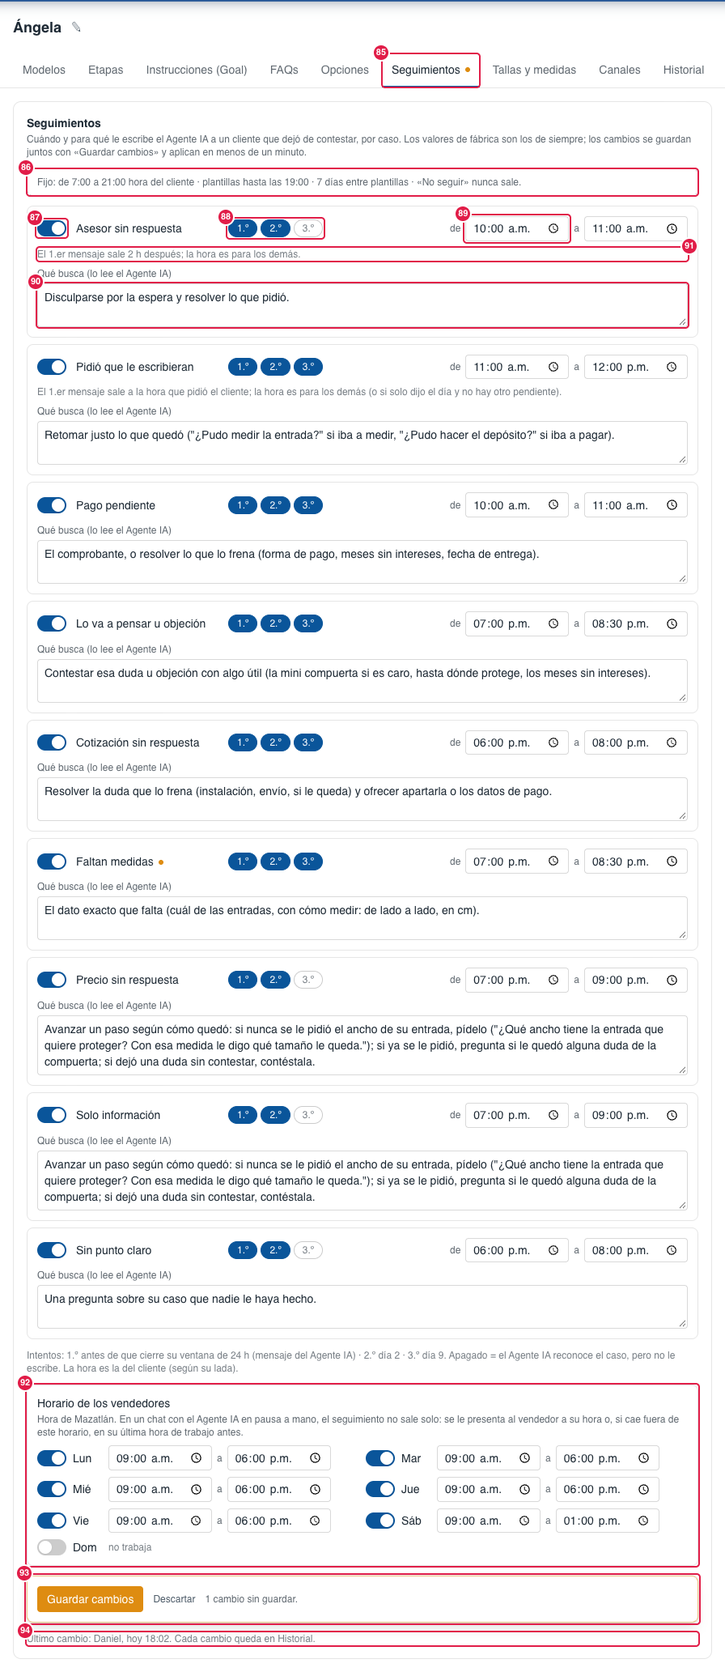
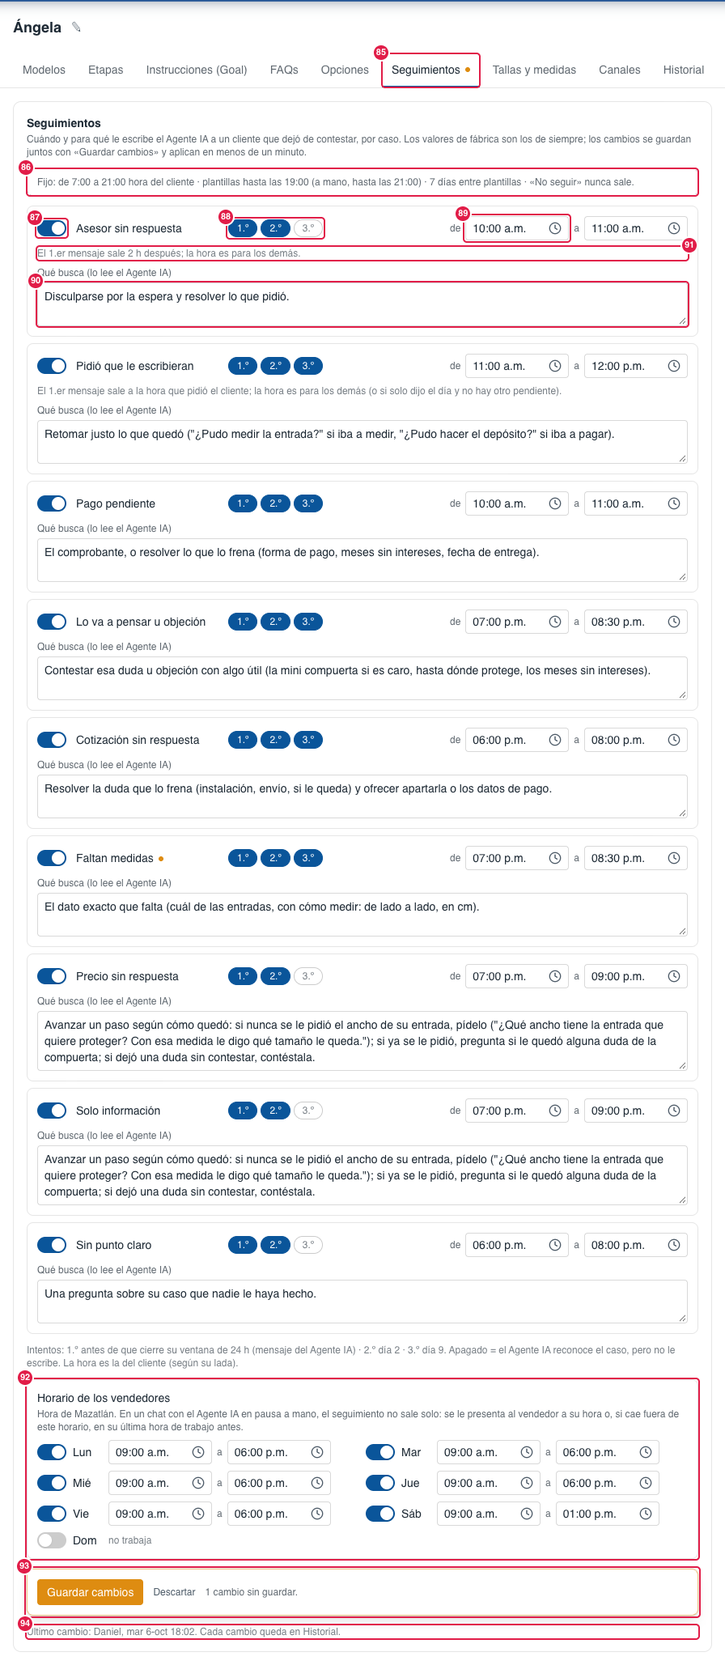
fix(seguimientos): zona de la frontera noreste y «Cambiar hora» con plantilla hasta las 21:00
- Ladas de la frontera noreste (867, 868, 894, 897, 899, 877, 878) → America/Matamoros y la 626 → America/Ojinaga:
  cambian de horario como EE. UU. y el CRM las trataba como centro (de marzo a noviembre su «21:00» llegaba a las 22:00).
- «Cambiar hora»: con plantilla se puede elegir hasta las 21:00 del cliente (antes 19:00) y el barrido respeta esa
  hora (due_set_by = vendedor). Lo que programa el CRM solo no cambia (plantillas hasta las 19:00).
- docs/seguimientos.md §20 con los datos de GHL y de producción que se revisaron; mapa 53 y 86 y captura
  09-agente-seguimientos.

Sin migración.

diff --git a/lib/followups/view.ts b/lib/followups/view.ts
@@ -6,7 +6,7 @@ import { db } from "@/lib/db";
 import { channels, contacts, conversations, followUps, messages, templates, user } from "@/lib/db/schema";
 import { listFunnelStages } from "@/lib/contacts/funnel-stages";
 import { firstNameOf } from "@/lib/templates/first-name";
-import { CASE_RULES, templateForAttempt, TIME_PHRASE_TEMPLATES, type FollowUpCase } from "./cases";
+import { ALLOWED_FROM, ALLOWED_TO, CASE_RULES, templateForAttempt, TIME_PHRASE_TEMPLATES, type FollowUpCase } from "./cases";
 import { presentAtFor, sendTimeProblem, templateFor, windowOpenAt, VENDOR_ZONE, type SendTimeProblem } from "./schedule";
 import { approvedTemplateNames, followUpsReal, lastTemplateAt, reopenCancelledFollowUp } from "./store";
 import { loadFollowUpTable } from "./tabla-store";
@@ -294,23 +294,19 @@ export function sendTimeMessage(problem: SendTimeProblem, t: Date, zone: string)
   if (problem.kind === "siete_dias") {
     return `A este cliente ya le llegó una plantilla hace menos de 7 días. Elige desde el ${dayText(problem.from)} (hora de Mazatlán).`;
   }
-  // De 7:00 a la última hora permitida del día del cliente, en hora de Mazatlán.
+  // De 7:00 a 21:00 del día del cliente, en hora de Mazatlán.
   const p = localParts(t, zone);
   const day = { y: p.y, m: p.m, d: p.d };
-  const from = hourText(zonedInstant(zone, day, "07:00"), VENDOR_ZONE);
-  const to = hourText(zonedInstant(zone, day, problem.latest), VENDOR_ZONE);
-  const why =
-    problem.latest === "21:00"
-      ? `Los seguimientos salen de 7:00 a 21:00 de su hora`
-      : `A esa hora su ventana de 24 h ya cerró y entonces solo se le puede escribir de 7:00 a 19:00 de su hora`;
-  return `Para el cliente serían las ${hourText(t, zone)} (su hora). ${why}: elige entre las ${from} y las ${to} de Mazatlán.`;
+  const from = hourText(zonedInstant(zone, day, ALLOWED_FROM), VENDOR_ZONE);
+  const to = hourText(zonedInstant(zone, day, ALLOWED_TO), VENDOR_ZONE);
+  return `Para el cliente serían las ${hourText(t, zone)} (su hora). Los seguimientos salen de 7:00 a 21:00 de su hora: elige entre las ${from} y las ${to} de Mazatlán.`;
 }
 
 export type ChangeTimeResult = { ok: true } | { ok: false; message: string };
 
 /**
  * Cambiar hora: la elige el vendedor (hora de Mazatlán); se recalcula por dónde saldría. Si a esa hora el
- * CRM no lo dejaría salir (horario del cliente, plantillas hasta las 19:00, 7 días entre plantillas), no se
+ * CRM no lo dejaría salir (7:00–21:00 del cliente, también con plantilla; 7 días entre plantillas), no se
  * guarda y se dice por qué: así sale justo a la hora que eligió.
  */
 export async function changeFollowUpTime(organizationId: string, id: string, dueAt: Date, userId: string, now: Date): Promise<ChangeTimeResult> {

diff --git a/lib/followups/store.ts b/lib/followups/store.ts
@@ -478,10 +478,13 @@ async function lastNonFollowUpAt(organizationId: string, conversationId: string)
   return row?.at ?? null;
 }
 
-/** Mismo instante con otra hora: la siguiente que se pueda (7:00–21:00 del cliente; plantilla hasta las 19:00). */
-function nextSendable(now: Date, zone: string, door: "texto" | "plantilla", caso: Exclude<FollowUpCase, "no_seguir">, fondo: FollowUpCase | null, table: FollowUpTable): Date | null {
+/**
+ * Mismo instante con otra hora: la siguiente que se pueda (7:00–21:00 del cliente; plantilla hasta las 19:00,
+ * salvo la hora que eligió el vendedor con «Cambiar hora»: hasta las 21:00, 10-oct-2026).
+ */
+function nextSendable(now: Date, zone: string, door: "texto" | "plantilla", caso: Exclude<FollowUpCase, "no_seguir">, fondo: FollowUpCase | null, table: FollowUpTable, setByVendor: boolean): Date | null {
   const m = localMinutes(now, zone);
-  const latest = door === "plantilla" ? minutesOf(TEMPLATE_LATEST) : minutesOf(ALLOWED_TO);
+  const latest = door === "plantilla" && !setByVendor ? minutesOf(TEMPLATE_LATEST) : minutesOf(ALLOWED_TO);
   if (m >= minutesOf(ALLOWED_FROM) && m <= latest) return null;
   const today = localParts(now, zone);
   const day = m < minutesOf(ALLOWED_FROM) ? today : addDays(today, 1);
@@ -605,8 +608,9 @@ async function advance(row: FollowUpRow, now: Date, deps: FollowUpRuntimeDeps): 
     door === "plantilla" ? templateForAttempt(caso, row.intento, templateFor(CASE_RULES[caso].doors[row.intento - 1] ?? "saludo", now, row.timeZone), signals.approved, picks, previous) : null;
 
   if (real) {
-    // Último chequeo antes de escribirle al cliente: su hora, el tope de las 19:00 para plantilla y los 7 días.
-    let later = nextSendable(now, row.timeZone, door, caso, fondo, signals.table);
+    // Último chequeo antes de escribirle al cliente: su hora, el tope de las 19:00 para plantilla (si no la eligió
+    // el vendedor) y los 7 días.
+    let later = nextSendable(now, row.timeZone, door, caso, fondo, signals.table, row.dueSetBy === "vendedor");
     if (!later && door === "plantilla" && signals.lastTemplateAt && now.getTime() < signals.lastTemplateAt.getTime() + TEMPLATE_SPACING_DAYS * DAY_MS) {
       later = planAttempt({
         caso,

diff --git a/lib/followups/timezone.ts b/lib/followups/timezone.ts
@@ -1,10 +1,13 @@
 // Zona horaria del cliente SEGÚN SU LADA, para mandar el seguimiento a la hora del caso en
 // SU hora (docs/seguimientos.md §9). PURO. Desde 2022 México no cambia de horario, salvo la
-// frontera norte (Baja California y Ciudad Juárez, como Estados Unidos): por eso se usan las
-// zonas IANA y no un desfase fijo.
+// frontera norte (Baja California, Ciudad Juárez, Ojinaga y la frontera de Coahuila, Nuevo León y
+// Tamaulipas, como Estados Unidos): por eso se usan las zonas IANA y no un desfase fijo.
 //   Baja California → Tijuana · Sonora → Hermosillo · Sinaloa, B.C.S. y Nayarit → Mazatlán
 //   (la lada 329, Bahía de Banderas, va con el centro) · Chihuahua → Chihuahua (656, Ciudad
-//   Juárez → Ciudad_Juarez) · Quintana Roo → Cancún · el resto → Ciudad de México.
+//   Juárez → Ciudad_Juarez; 626, Ojinaga → Ojinaga) · Quintana Roo → Cancún · ladas de la frontera
+//   noreste (Nuevo Laredo, Reynosa, Matamoros, Valle Hermoso, Miguel Alemán, Piedras Negras, Acuña)
+//   → Matamoros: hora del centro con horario de verano (10-oct-2026: antes iban con el centro y de
+//   marzo a noviembre su «21:00» les llegaba a las 22:00) · el resto → Ciudad de México.
 // Número de México sin estado en la fuente: centro. Número de otro país o sin teléfono:
 // Mazatlán (la hora del CRM).
 import { mexicanLadaStates } from "@/lib/phone-lada";
@@ -22,9 +25,19 @@ const ZONE_BY_STATE: Readonly<Record<string, string>> = {
   QROO: "America/Cancun",
 };
 
+const BORDER_NORTHEAST = "America/Matamoros";
+
 const ZONE_BY_LADA: Readonly<Record<string, string>> = {
   "329": CENTER,
   "656": "America/Ciudad_Juarez",
+  "626": "America/Ojinaga",
+  "867": BORDER_NORTHEAST, // Nuevo Laredo
+  "868": BORDER_NORTHEAST, // Matamoros
+  "894": BORDER_NORTHEAST, // Valle Hermoso
+  "897": BORDER_NORTHEAST, // Miguel Alemán, Mier, Camargo
+  "899": BORDER_NORTHEAST, // Reynosa, Río Bravo
+  "877": BORDER_NORTHEAST, // Ciudad Acuña
+  "878": BORDER_NORTHEAST, // Piedras Negras
 };
 
 export function zoneForPhone(e164: string | null | undefined): string {

diff --git a/lib/followups/tabla.int.test.ts b/lib/followups/tabla.int.test.ts
@@ -186,11 +186,13 @@ describe.skipIf(!TEST_DATABASE_URL)("Tabla de seguimientos en la base", () => {
     // 22:00 del centro con la ventana abierta: texto, pero fuera de 7:00–21:00.
     const late = await view.changeFollowUpTime(ORG, v!.id, new Date("2026-10-05T22:00:00-06:00"), USER, NOW);
     expect(late).toEqual({ ok: false, message: "Para el cliente serían las 22:00 (su hora). Los seguimientos salen de 7:00 a 21:00 de su hora: elige entre las 6:00 y las 20:00 de Mazatlán." });
-    // Miércoles 20:00 del centro: la ventana ya cerró → plantilla, hasta las 19:00.
-    const tpl = await view.changeFollowUpTime(ORG, v!.id, new Date("2026-10-07T20:00:00-06:00"), USER, NOW);
-    expect(tpl.ok).toBe(false);
-    expect(tpl.ok ? "" : tpl.message).toMatch(/solo se le puede escribir de 7:00 a 19:00 de su hora: elige entre las 6:00 y las 18:00 de Mazatlán/);
+    // Miércoles 21:30 del centro: la ventana ya cerró → plantilla, también de 7:00 a 21:00 (10-oct-2026).
+    const tpl = await view.changeFollowUpTime(ORG, v!.id, new Date("2026-10-07T21:30:00-06:00"), USER, NOW);
+    expect(tpl).toEqual({ ok: false, message: "Para el cliente serían las 21:30 (su hora). Los seguimientos salen de 7:00 a 21:00 de su hora: elige entre las 6:00 y las 20:00 de Mazatlán." });
     expect((await rows())[0]).toMatchObject({ dueAt: before.dueAt, dueSetBy: "sistema" });
+    // Miércoles 20:59 del centro con plantilla (el caso del 10-oct-2026): se guarda.
+    expect(await view.changeFollowUpTime(ORG, v!.id, new Date("2026-10-07T20:59:00-06:00"), USER, NOW)).toEqual({ ok: true });
+    expect((await rows())[0]).toMatchObject({ door: "plantilla", dueSetBy: "vendedor" });
     // Una hora que sí se puede: se guarda tal cual.
     expect(await view.changeFollowUpTime(ORG, v!.id, new Date("2026-10-05T20:45:00-06:00"), USER, NOW)).toEqual({ ok: true });
     expect((await rows())[0]).toMatchObject({ dueSetBy: "vendedor" });

diff --git a/lib/followups/schedule.ts b/lib/followups/schedule.ts
@@ -85,17 +85,17 @@ export function windowOpenAt(windowExpiresAt: Date | null, t: Date): boolean {
   return windowExpiresAt !== null && t.getTime() <= windowExpiresAt.getTime() - WINDOW_MARGIN_MS;
 }
 
-export type SendTimeProblem = { kind: "horario"; latest: string } | { kind: "siete_dias"; from: Date };
+export type SendTimeProblem = { kind: "horario" } | { kind: "siete_dias"; from: Date };
 
 /**
- * ¿El CRM dejaría salir un intento a esa hora? Lo mismo que revisa el barrido al salir: de 7:00 a 21:00 del
- * cliente (plantilla hasta las 19:00) y 7 días entre plantillas. Lo usa «Cambiar hora» para avisar al guardar
- * en lugar de mover la hora en silencio (decisión del dueño, 6-oct-2026).
+ * ¿El CRM dejaría salir a esa hora un intento que eligió el vendedor? Lo mismo que revisa el barrido al salir:
+ * de 7:00 a 21:00 del cliente, también con plantilla (el tope de las 19:00 es solo para lo que programa el CRM;
+ * decisión del dueño, 10-oct-2026), y 7 días entre plantillas. Lo usa «Cambiar hora» para avisar al guardar en
+ * lugar de mover la hora en silencio (decisión del dueño, 6-oct-2026).
  */
 export function sendTimeProblem(t: Date, zone: string, door: Door, lastTemplateAt: Date | null): SendTimeProblem | null {
   const m = localMinutes(t, zone);
-  const latest = door === "plantilla" ? TEMPLATE_LATEST : ALLOWED_TO;
-  if (m < minutesOf(ALLOWED_FROM) || m > minutesOf(latest)) return { kind: "horario", latest };
+  if (m < minutesOf(ALLOWED_FROM) || m > minutesOf(ALLOWED_TO)) return { kind: "horario" };
   if (door === "plantilla" && lastTemplateAt && t.getTime() < lastTemplateAt.getTime() + TEMPLATE_SPACING_DAYS * DAY) {
     return { kind: "siete_dias", from: new Date(lastTemplateAt.getTime() + TEMPLATE_SPACING_DAYS * DAY) };
   }

diff --git a/lib/followups/schedule.test.ts b/lib/followups/schedule.test.ts
@@ -246,11 +246,12 @@ describe("tabla de la organización (Agente IA › Seguimientos, Parte 4)", () =
 });
 
 describe("¿saldría a esa hora? (aviso de «Cambiar hora»)", () => {
-  it("texto: de 7:00 a 21:00 del cliente; plantilla: hasta las 19:00 y a 7 días de la anterior", () => {
+  it("elegida por el vendedor: de 7:00 a 21:00 del cliente, también con plantilla (10-oct-2026), y a 7 días de la anterior", () => {
     expect(sendTimeProblem(mx("2026-10-05T21:00"), CDMX, "texto", null)).toBeNull();
-    expect(sendTimeProblem(mx("2026-10-05T22:00"), CDMX, "texto", null)).toEqual({ kind: "horario", latest: "21:00" });
-    expect(sendTimeProblem(mx("2026-10-05T06:55"), CDMX, "texto", null)).toEqual({ kind: "horario", latest: "21:00" });
-    expect(sendTimeProblem(mx("2026-10-05T19:30"), CDMX, "plantilla", null)).toEqual({ kind: "horario", latest: "19:00" });
+    expect(sendTimeProblem(mx("2026-10-05T22:00"), CDMX, "texto", null)).toEqual({ kind: "horario" });
+    expect(sendTimeProblem(mx("2026-10-05T06:55"), CDMX, "texto", null)).toEqual({ kind: "horario" });
+    expect(sendTimeProblem(mx("2026-10-05T20:59"), CDMX, "plantilla", null)).toBeNull();
+    expect(sendTimeProblem(mx("2026-10-05T21:05"), CDMX, "plantilla", null)).toEqual({ kind: "horario" });
     expect(sendTimeProblem(mx("2026-10-08T10:00"), CDMX, "plantilla", mx("2026-10-05T10:00"))).toEqual({ kind: "siete_dias", from: mx("2026-10-12T10:00") });
     expect(sendTimeProblem(mx("2026-10-12T10:00"), CDMX, "plantilla", mx("2026-10-05T10:00"))).toBeNull();
     // Texto no cuenta los 7 días entre plantillas.

diff --git a/lib/followups/timezone.test.ts b/lib/followups/timezone.test.ts
@@ -15,8 +15,23 @@ describe("zoneForPhone", () => {
     ["+526561234567", "America/Ciudad_Juarez"], // Ciudad Juárez
     ["+529981234567", "America/Cancun"], // Cancún
     ["+523291234567", "America/Mexico_City"], // Bahía de Banderas (Nayarit, hora del centro)
+    ["+528991234567", "America/Matamoros"], // Reynosa (frontera: horario de verano como EE. UU.)
+    ["+528681234567", "America/Matamoros"], // Matamoros
+    ["+528671234567", "America/Matamoros"], // Nuevo Laredo
+    ["+528781234567", "America/Matamoros"], // Piedras Negras
+    ["+528771234567", "America/Matamoros"], // Ciudad Acuña
+    ["+526261234567", "America/Ojinaga"], // Ojinaga
+    ["+528181234567", "America/Mexico_City"], // Monterrey (no es frontera: sin horario de verano)
   ])("%s → %s", (phone, zone) => {
     expect(zoneForPhone(phone)).toBe(zone);
+  });
+
+  it("frontera noreste en octubre: una hora más que el centro (21:00 de Reynosa = 20:00 del centro); en diciembre, igual", () => {
+    const hour = (zone: string, iso: string) => new Intl.DateTimeFormat("en-US", { timeZone: zone, hour: "numeric", hourCycle: "h23" }).format(new Date(iso));
+    expect(hour(zoneForPhone("+528991234567"), "2026-10-10T02:00:00Z")).toBe("21");
+    expect(hour(zoneForPhone("+523312345678"), "2026-10-10T02:00:00Z")).toBe("20");
+    expect(hour(zoneForPhone("+528991234567"), "2026-12-10T03:00:00Z")).toBe("21");
+    expect(hour(zoneForPhone("+523312345678"), "2026-12-10T03:00:00Z")).toBe("21");
   });
 
   it("otro país o sin teléfono: Mazatlán (la hora del CRM)", () => {

diff --git a/lib/followups/envio.int.test.ts b/lib/followups/envio.int.test.ts
@@ -170,6 +170,19 @@ describe.skipIf(!TEST_DATABASE_URL)("Seguimientos en modo REAL (proveedor falso)
     expect((await row()).intentos.at(-1)).toMatchObject({ ensayo: true });
   });
 
+  it("plantilla a las 20:30 del cliente elegida con «Cambiar hora»: sale a esa hora (el tope de las 19:00 es solo para lo del CRM)", async () => {
+    await reading();
+    await store.followUpSweepOnce(new Date((await row()).dueAt!.getTime() + MIN), { provider });
+    const r = await row();
+    expect(r).toMatchObject({ intento: 2, door: "plantilla" });
+    const late = new Date("2026-10-07T20:30:00-06:00");
+    await db.update(s.followUps).set({ dueAt: late, dueSetBy: "vendedor" }).where(d.eq(s.followUps.id, r.id));
+    sent = [];
+    await store.followUpSweepOnce(new Date(late.getTime() + MIN), { provider });
+    expect(sent).toEqual([expect.objectContaining({ kind: "template", name: "seg_medidas" })]);
+    expect(await row()).toMatchObject({ status: "esperando" });
+  });
+
   it("pausa puesta a mano: no sale sola; a su hora de presentarse deja UN aviso (tarjeta amarilla); «Que salga solo» la deja salir", async () => {
     await db.update(s.conversations).set({ agentState: "pausado_humano", agentStateChangedAt: new Date(T0.getTime() - MIN) }).where(d.eq(s.conversations.id, CONV));
     await db.insert(s.changeHistory).values({ id: "h_pausa", organizationId: ORG, kind: "pausas", action: "pausar", subjectId: CONV, createdAt: new Date(T0.getTime() - MIN) });

diff --git a/app/(app)/agente-ia/_components/followup-rules-section.tsx b/app/(app)/agente-ia/_components/followup-rules-section.tsx
@@ -4,7 +4,7 @@
 // tabla de casos de los seguimientos y el horario de los vendedores. Como en Opciones, todo edita un
 // BORRADOR; con cambios aparecen «Guardar cambios» (naranja) y «Descartar», y «Guardar cambios» confirma
 // arriba con la lista de cambios. Cada guardado queda en Agente IA › Historial. Lo fijo (7:00–21:00,
-// plantillas hasta las 19:00, 7 días entre plantillas) solo se muestra. Sin lógica de datos: las reglas
+// plantillas hasta las 19:00 salvo con «Cambiar hora», 7 días entre plantillas) solo se muestra. Sin lógica de datos: las reglas
 // viven en lib/followups/tabla.ts y el guardado en la Server Action.
 import { useEffect, useState } from "react";
 import { saveFollowUpTableAction, type FollowUpTableLastChange } from "@/lib/actions/agente-ia-seguimientos";
@@ -120,7 +120,7 @@ export function FollowUpRulesSection({
   return (
     <div className="flex flex-col gap-3">
       <p className="rounded-md border border-dashed border-black/20 px-3 py-2 text-xs text-foreground/70 dark:border-white/20">
-        Fijo: de 7:00 a 21:00 hora del cliente · plantillas hasta las 19:00 · 7 días entre plantillas · «No seguir» nunca sale.
+        Fijo: de 7:00 a 21:00 hora del cliente · plantillas hasta las 19:00 (a mano, hasta las 21:00) · 7 días entre plantillas · «No seguir» nunca sale.
       </p>
 
       <ul className="flex flex-col gap-2">

diff --git a/lib/followups/tabla.ts b/lib/followups/tabla.ts
@@ -6,7 +6,7 @@
 // de que cierre la ventana, 2.º día 2, 3.º día 9), la hora (desde/hasta, hora del cliente, dentro de
 // 7:00–21:00) y «Qué busca» (lo lee el Agente IA al escribir el seguimiento). Además, el horario de los
 // vendedores (hora de Mazatlán) con el que se presentan las sugerencias. Fijo en el código: 7:00–21:00,
-// plantillas hasta las 19:00 y 7 días entre plantillas (cases.ts).
+// plantillas hasta las 19:00 (con «Cambiar hora», hasta las 21:00) y 7 días entre plantillas (cases.ts).
 //
 // En ai_config: `seguimientos_casos` y `seguimientos_vendedores` (migración 0062); null = de fábrica.
 // Un caso guardado que ya no valide (editado a mano) vuelve al de fábrica: nunca queda uno imposible.

diff --git a/lib/followups/cases.ts b/lib/followups/cases.ts
@@ -125,7 +125,10 @@ export function isFollowUpCase(value: unknown): value is FollowUpCase {
 /** Horario permitido (hora del cliente, todos los días): 7:00 a 21:00. */
 export const ALLOWED_FROM = "07:00";
 export const ALLOWED_TO = "21:00";
-/** Con plantilla, nunca después de las 19:00 (una plantilla de noche es rara). */
+/**
+ * Con plantilla, lo que programa el CRM nunca sale después de las 19:00 (una plantilla de noche es rara). Si la hora
+ * la eligió el vendedor con «Cambiar hora», hasta las 21:00 como el texto (decisión del dueño, 10-oct-2026).
+ */
 export const TEMPLATE_LATEST = "19:00";
 /** En los casos de noche, la plantilla sale a esta hora. */
 export const TEMPLATE_EVENING = "18:00";

diff --git a/docs/seguimientos.md b/docs/seguimientos.md
@@ -197,7 +197,8 @@ que pedir un comprobante (en la mañana, para que alcance a pagar ese día).
   7 días, §9).
 - Si un intento ya salió con plantilla, el siguiente con plantilla espera 7 días.
 - **Con plantilla, nunca después de las 19:00**: una plantilla de noche que no es respuesta del Agente IA es rara
-  (decisión del dueño, 2-oct). En los casos de noche, la plantilla sale de 18:00 a 19:00.
+  (decisión del dueño, 2-oct). En los casos de noche, la plantilla sale de 18:00 a 19:00. **Salvo** la hora que elige
+  el vendedor con «Cambiar hora»: con plantilla, hasta las 21:00 como el texto (decisión del dueño, 10-oct, §20).
 
 **Puertas** (solo cuando la ventana está cerrada): 🚪 = `hola_buenos_dias` antes de las 12:00 hora del cliente,
 `hola_buenas_tardes` después · 📄 = `seguimiento_proteccion`. Con la ventana abierta, siempre texto del Agente IA.
@@ -379,7 +380,8 @@ rápidos, 📄 Plantillas y 📎 Adjuntar (Bandeja y pop-up del Embudo usan el m
 - Solo a contactos que **ya escribieron** alguna vez (nunca a un contacto sin chat).
 - **Horario de envío: 7:00–21:00 hora del cliente** (decisión del dueño, 2-oct; estado de su lada → zona horaria;
   sin lada mexicana, Mazatlán), con la hora de cada caso (§6.2), **todos los días, domingo incluido** (decisión del
-  dueño, 2-oct: si al seguimiento le toca ese día, sale ese día). Con plantilla, hasta las 19:00.
+  dueño, 2-oct: si al seguimiento le toca ese día, sale ese día). Con plantilla, hasta las 19:00 (elegida a mano con
+  «Cambiar hora», hasta las 21:00; §20).
 
 ---
 
@@ -447,7 +449,7 @@ contacto de prueba del dueño.
 - Chats que lleva un vendedor: **automático con aviso**; si el cliente contesta, **la conversación sigue con el
   Agente IA** (§7.4).
 - Sin plantilla de "buenas noches": una plantilla de noche que no es respuesta del Agente IA es rara; las plantillas
-  salen hasta las 19:00.
+  que programa el CRM salen hasta las 19:00 (a mano con «Cambiar hora», hasta las 21:00: decisión del 10-oct, §20).
 - Sin reactivación tardía de 15 días como Ángela: el seguimiento sale del contexto del chat.
 
 - El botón 🤖 va arriba de ⚡ 📄 📎 (§8). "Cancelar" cancela todo el seguimiento de ese pendiente; si el chat cambia y
@@ -493,7 +495,7 @@ intento que salió o "habría salido"), based_on_message_at (hasta dónde leyó 
   entre plantillas).
 - `lib/ai/runtime/lector.ts`: al aplicar la lectura, si el último mensaje es nuestro, guarda o reemplaza la ficha.
 - `lib/followups/timezone.ts` (puro): estado de la lada (`lib/phone-lada-data.ts`) → zona horaria (Tijuana, Hermosillo,
-  Mazatlán, Chihuahua/Ciudad Juárez, CDMX, Cancún).
+  Mazatlán, Chihuahua/Ciudad Juárez/Ojinaga, CDMX, frontera noreste → Matamoros, Cancún; §20).
 - Worker: `startFollowUpRuntime` con el patrón de `startLectorRuntime` (barrido cada 60 s, candado por chat).
 - `lib/messaging/send.ts`: `sendTemplateMessage` acepta `source` (`crm` | `ai_agent`) y `sentByUserId` nulo; con
   `ai_agent` no pasa por `pauseAgentForManualSend`.
@@ -608,7 +610,8 @@ Aprobado por el dueño el 6-oct-2026 («OK 1–12», con vista previa). Rama `fe
   3.º** (cada uno se prende o se apaga; los tiempos no cambian: antes del cierre, día 2, día 9), **hora desde/hasta**
   (hora del cliente, dentro de 7:00–21:00) y **qué busca** (lo lee el Agente IA; de fábrica, las guías del lector de §14).
 - **Horario de los vendedores** por día (Mazatlán) para presentar las sugerencias (§7.4).
-- Fijo en el código: 7:00–21:00, plantillas hasta las 19:00, 7 días entre plantillas.
+- Fijo en el código: 7:00–21:00, plantillas hasta las 19:00 (con «Cambiar hora», hasta las 21:00; 10-oct), 7 días
+  entre plantillas.
 - Borrador + «Guardar cambios» con confirmación (lista de cambios) y «Descartar», como Opciones. Cada guardado deja una fila
   en Agente IA › Historial (tipo «Seguimientos», con «Ver cambios» renglón por renglón). Aplica en ≤ 60 s (caché por
   organización en web y worker).
@@ -626,8 +629,9 @@ baja; Ensayo) y la carita según el estado; ✕ roja sin la palabra «Cerrar»; 
 busca el seguimiento?», «¿Cuándo sale el N.º mensaje?» (N = mensajes que ya salieron + 1) o «¿Y ahora?» tras el último;
 sin «Por dónde» ni la palabra «plantilla»; «Ver mensaje» = el texto exacto; un renglón por mensaje que ya salió, sin el
 nombre de la plantilla. El texto de la píldora, títulos, preguntas y botones no se seleccionan; las respuestas y el mensaje
-sí. **Cambiar hora** ya no deja una hora que el CRM movería al salir: avisa al guardar (fuera de 7:00–21:00 del cliente,
-plantilla después de las 19:00 o a menos de 7 días de otra plantilla) con el rango en hora de Mazatlán.
+sí. **Cambiar hora** ya no deja una hora que el CRM movería al salir: avisa al guardar (fuera de 7:00–21:00 del cliente
+o a menos de 7 días de otra plantilla) con el rango en hora de Mazatlán. Hasta el 10-oct también avisaba con plantilla
+después de las 19:00; ese tope ya no aplica a la hora elegida a mano (§20).
 
 Código: `lib/followups/tabla.ts` (fábrica, validación, cambios), `tabla-store.ts` (lectura con caché, guardado +
 Historial), `schedule.ts` (`PlanInput.table`, `sendTimeProblem`), `store.ts` (caso/intento apagado, `skipStep`),
@@ -727,6 +731,39 @@ prototipos (tamaño real y ampliado) antes de construirlas; el dueño aprobó la
   `ESCENA_MS`). En chico los detalles finos casi no se ven; el dueño lo aceptó así.
 
 ---
+
+## 20. Frontera noreste y plantilla a mano hasta las 21:00 (10-oct-2026)
+
+**Origen:** un cliente del centro (una hora más que Mazatlán) contestó «aún no llego del trabajo» al seguimiento de las
+19:00 de su hora. El siguiente quedó a las 18:25 de su hora (la última antes del cierre de la ventana, con 1 h de margen).
+El dueño lo quiso mover a las 20:59 de su hora y «Cambiar hora» no lo dejó: con la ventana cerrada sale plantilla y las
+plantillas tenían tope a las 19:00. Las plantillas `seg_*` no saludan por hora (su `{{1}}` dice cuándo escribió el
+cliente), así que de noche se leen igual de bien.
+
+**Decisiones del dueño (10-oct, «OK 1 y 2»):**
+1. **Zona de la frontera noreste.** Desde 2022 esos municipios cambian de horario como Estados Unidos, y el CRM los
+   trataba como centro: de marzo a noviembre su «21:00» les llegaba a las 22:00. Ahora las ladas 867 (Nuevo Laredo),
+   868 (Matamoros), 894 (Valle Hermoso), 897 (Miguel Alemán, Mier, Camargo), 899 (Reynosa, Río Bravo), 877 (Ciudad
+   Acuña) y 878 (Piedras Negras) van con `America/Matamoros`, y la 626 (Ojinaga) con `America/Ojinaga`. En GHL eran
+   270 contactos (2.4 %), 125 de Reynosa. Lo ya programado conserva la zona con la que se calculó; lo nuevo usa la nueva.
+2. **«Cambiar hora» con plantilla, hasta las 21:00 del cliente** (antes, hasta las 19:00). El barrido respeta esa hora
+   (`due_set_by = vendedor`). Lo que programa el CRM solo no cambia: plantillas hasta las 19:00 y, en los casos de noche,
+   a las 18:00.
+
+**Lo que dijeron los datos antes de decidir (lo automático de noche se queda igual):**
+- GHL casi no tiene seguimientos de noche: retomando un chat callado ≥8 h, de 19 a 22 h del cliente hubo entre 0 y 5 envíos
+  (ni vendedores ni Ángela escribían a esa hora). El «77–79 % en 2 h de 19 a 21 h» de §6.2 es de chats **activos**, no de
+  seguimientos. Retomando chats, el vendedor tuvo 63–71 % de respuesta en 12 h de 9 a 17 h, 46 % de 17 a 18 h y 33 % de 18 a
+  19 h (n=12).
+- Los que dijeron «estoy en el trabajo / no he llegado a mi casa» (182): solo el 17 % volvió a escribir solo en 48 h, con una
+  mediana de 15 h, casi siempre a la mañana siguiente o al mediodía; ninguno de 20 a 24 h (n=31).
+- Producción, del 6 al 10-oct (782 intentos reales), contestó en 12 h: texto de 18 a 19 h 17 % (n=64), de 19 a 20 h 13 %
+  (n=193), de 20 a 21 h 9 % (n=11), de 15 a 17 h 25 % (n=36); plantilla de 18 a 19 h 9 % (n=373). Por caso no hay una
+  franja que gane siempre. La noche no salió mejor: no hay base para mover lo automático más tarde ni para un tope de 21:30.
+- Siguiente revisión con más datos: la del 13-oct (horas de los seguimientos por caso).
+
+Código: `timezone.ts` (`ZONE_BY_LADA`), `schedule.ts` (`sendTimeProblem` sin tope de plantilla), `store.ts` (`nextSendable`
+con `setByVendor`), `view.ts` (`sendTimeMessage`). Guiones del análisis, fuera del repo: `notas/historial-ghl/analizar5.py`.
 
 ## Fuentes
 
